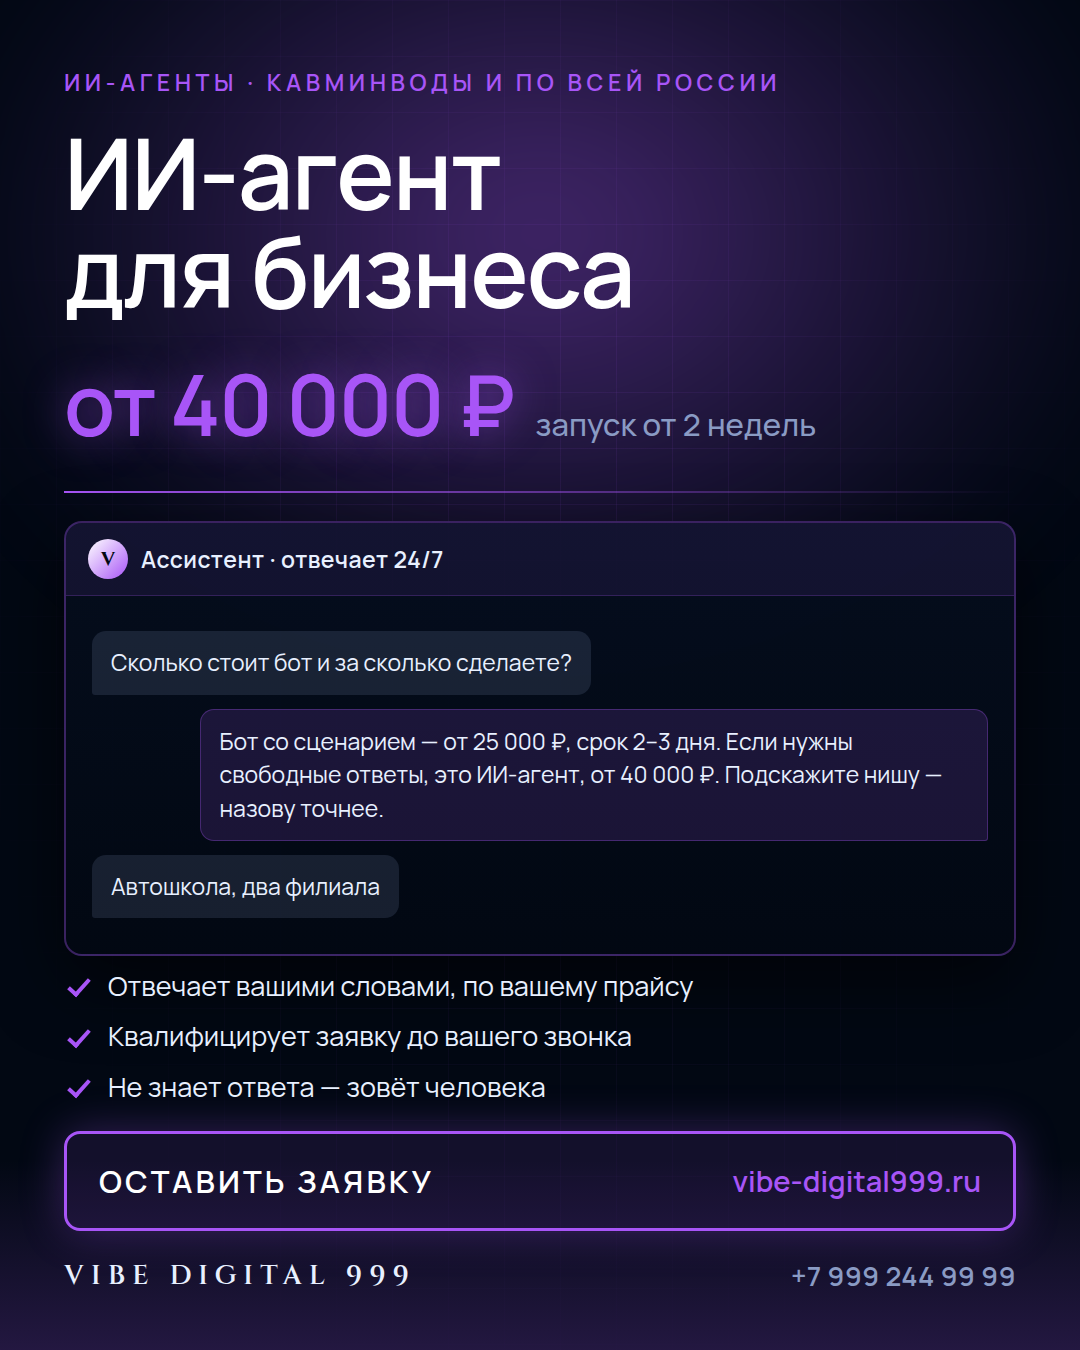
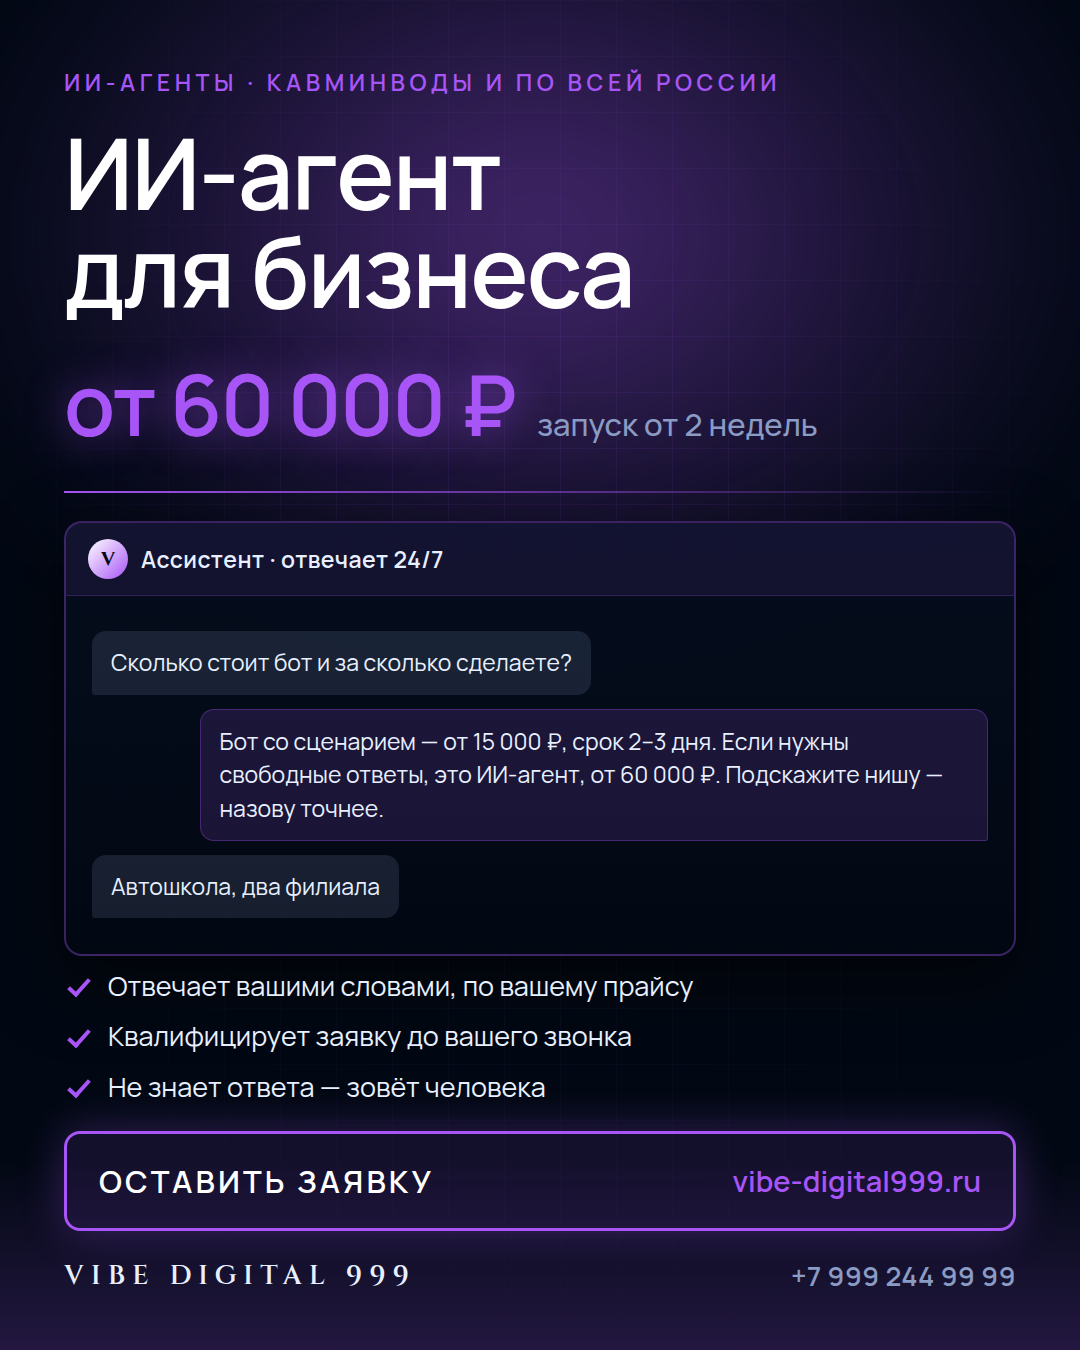
Цены на рекламных макетах разошлись с сайтом — исправить и запретить впредь
Товары выложены в Яндекс Бизнес, и цены теперь живут в трёх местах:
на сайте, на рекламных макетах и в карточке. Сверка показала, что
макеты отстали — цены брались на глаз из прайса на главной, а он
к тому моменту уже обновился.

  Лид-бот   было 25 000 ₽ на макете, на сайте 15 000 ₽
  ИИ-агент  было 40 000 ₽ на макете, на сайте 60 000 ₽

Лендинг и SEO-аудит совпадали. Расхождение сайта, рекламы и карточки
клиент читает не как опечатку: пришёл по рекламе на 40 000, увидел
60 000 и ушёл, а заодно перестал верить остальному.

Цены исправлены, картинки пересобраны. Заодно поправлены суммы внутри
диалога на макете ИИ-агента — там бот и агент назывались теми же
старыми числами.

Чтобы это не повторилось, в сборку встроена сверка со src/pages.js —
там источник правды, оттуда цены попадают и на сайт, и в разметку
для поисковиков. Расходится хоть на один макет — сборка останавливается
и печатает, где именно. Защита проверена подстановкой неверной цены:
падает с кодом 1 и понятным сообщением, а не рисует молча.

В журнал записано, какие цены правильные, — чтобы сверить с карточкой
Яндекс Бизнеса. Там же отмечено, что для витрины товаров нужны
квадратные версии макетов: нынешние 1080×1350 сделаны под ленту ВК
и в витрине обрежутся как раз по заголовку и по кнопке.

Claude-Session: https://claude.ai/code/session_01L4r9AvJ7LdQt8K2DfmUhac

Changed region(s): [[0.4278, 0.5289, 0.8556, 0.5911], [0.1528, 0.28, 0.4889, 0.3422], [0.4889, 0.3111, 0.7639, 0.3422]]

diff --git a/marketing/creatives.js b/marketing/creatives.js
@@ -70,7 +70,14 @@ const fontCss = fs.readFileSync(path.join(ROOT, 'public/assets/fonts/fonts.css')
   .join('\n');
 
 /* У каждого макета свой доминирующий цвет и своя картинка в центре.
-   Иначе серия из четырёх читается в ленте как одна повторённая. */
+   Иначе серия из четырёх читается в ленте как одна повторённая.
+
+   ЦЕНЫ БЕРУТСЯ ИЗ src/pages.js — там источник правды, оттуда же они
+   попадают на сайт и в разметку для поисковиков. Скрипт сверяет их при
+   сборке и не даёт разойтись: 11.08.2026 на макетах уехали цены бота
+   и агента из старого прайса, и это чуть не разошлось с карточкой
+   Яндекс Бизнеса. Расхождение сайта, рекламы и карточки читается
+   клиентом как обман, а не как опечатка. */
 const ITEMS = [
   {
     id: 'lending',
@@ -91,7 +98,7 @@ const ITEMS = [
     color: '#2D9CFF',
     eyebrow: 'Telegram-боты · Кавминводы и по всей России',
     title: 'Бот для заявок',
-    price: 'от 25 000 ₽',
+    price: 'от 15 000 ₽',
     term: 'срок 2–3 дня',
     ticks: [
       'Принимает заявки круглосуточно',
@@ -105,7 +112,7 @@ const ITEMS = [
     color: '#A855F7',
     eyebrow: 'ИИ-агенты · Кавминводы и по всей России',
     title: 'ИИ-агент<br>для бизнеса',
-    price: 'от 40 000 ₽',
+    price: 'от 60 000 ₽',
     term: 'запуск от 2 недель',
     ticks: [
       'Отвечает вашими словами, по вашему прайсу',
@@ -176,8 +183,8 @@ const MOCKS = {
       <div class="mock-bar tg"><b>V</b><span>Ассистент · отвечает 24/7</span></div>
       <div class="mock-body chat">
         <div class="bub in">Сколько стоит бот и за сколько сделаете?</div>
-        <div class="bub out">Бот со сценарием — от 25 000 ₽, срок 2–3 дня.
-          Если нужны свободные ответы, это ИИ-агент, от 40 000 ₽.
+        <div class="bub out">Бот со сценарием — от 15 000 ₽, срок 2–3 дня.
+          Если нужны свободные ответы, это ИИ-агент, от 60 000 ₽.
           Подскажите нишу — назову точнее.</div>
         <div class="bub in">Автошкола, два филиала</div>
       </div>
@@ -352,6 +359,41 @@ ${fontCss}
   </div>
 </div>
 </body></html>`;
+
+/* ── Сверка цен с сайтом ───────────────────────────────────────
+   Макет с ценой, которой нет на сайте, хуже макета без цены: клиент
+   приходит по рекламе, видит другую сумму и уходит. Поэтому сборка
+   падает, а не рисует молча.
+
+   11.08.2026 на макетах уехали цены бота (25 000 вместо 15 000) и
+   агента (40 000 вместо 60 000) — взяты из старого прайса. Поймано
+   случайно, когда цены уже уходили в карточку Яндекс Бизнеса.
+   Расхождение сайта, рекламы и карточки клиент читает как обман. */
+const OFFERS = require(path.join(ROOT, 'src/pages.js')).PAGES
+  .filter(p => p.offer && p.offer.price)
+  .reduce((m, p) => (m[p.url] = p.offer.price, m), {});
+
+const CHECK = {
+  lending: '/uslugi/razrabotka-sajta/',
+  bot:     '/uslugi/telegram-bot/',
+  agent:   '/uslugi/ai-agent/',
+  audit:   '/uslugi/seo-audit-152fz/',
+};
+
+let mismatch = 0;
+for (const it of ITEMS) {
+  const want = OFFERS[CHECK[it.id]];
+  const got = it.price.replace(/[^0-9]/g, '');
+  if (want !== got) {
+    console.error(`  ✗ ${it.id}: на макете ${got} ₽, на сайте ${want} ₽ (${CHECK[it.id]})`);
+    mismatch++;
+  }
+}
+if (mismatch) {
+  console.error('\nЦены разошлись с сайтом. Правьте ITEMS или src/pages.js — но так, чтобы совпало.\n');
+  process.exit(1);
+}
+console.log('  цены сверены с src/pages.js: совпадают\n');
 
 fs.mkdirSync(OUT, { recursive: true });
 

diff --git a/TASKS.md b/TASKS.md
@@ -642,6 +642,50 @@ Telegram-боты, этот сайт.
 
 ---
 
+## 11 августа: цены на рекламе разошлись с сайтом
+
+**Цель дня:** товары выложены в Яндекс Бизнес — значит, цены теперь живут
+в трёх местах сразу, и они обязаны совпадать.
+
+**Что нашли.** На рекламных макетах стояли цены из старого прайса:
+
+| Услуга | На сайте | Было на макете |
+|---|---|---|
+| Лид-бот | от 15 000 ₽ | от 25 000 ₽ |
+| ИИ-агент | от 60 000 ₽ | от 40 000 ₽ |
+
+Лендинг и аудит совпадали. Ошибка моя: цены брались на глаз из прайса
+на главной, а он к тому моменту уже обновился. Поймано случайно, когда
+цены уже уходили в карточку Яндекс Бизнеса.
+
+Расхождение сайта, рекламы и карточки клиент читает не как опечатку,
+а как обман: пришёл по рекламе на 40 000, увидел 60 000 и ушёл.
+
+**Сделано:**
+- [ ] Цены на макетах исправлены, картинки пересобраны.
+- [ ] В сборку макетов встроена сверка со `src/pages.js` — там источник
+      правды, оттуда цены попадают и на сайт, и в разметку для
+      поисковиков. Расходится — сборка падает с указанием, где именно.
+      Проверено подстановкой неверной цены: падает, код выхода 1.
+
+**Ждём от Гульнары:**
+- [ ] Сверить карточку в Яндекс Бизнесе с сайтом. Правильные цены:
+      разработка сайта от 35 000 ₽, Telegram- и VK-бот от 15 000 ₽,
+      ИИ-агент от 60 000 ₽, автоматизация от 30 000 ₽, вайбкодинг
+      от 65 000 ₽, приложения от 150 000 ₽, SEO-аудит с 152-ФЗ 15 000 ₽.
+- [ ] Если в карточке уже стоят 25 000 за бота или 40 000 за агента —
+      поправить там, а не на сайте.
+- [ ] Проверить, что в карточке указан сайт `vibe-digital999.ru`:
+      в разметке сайта ссылка на карточку уже стоит, нужна обратная.
+
+**Не доделано в коде:**
+- [ ] Витрина товаров в Яндекс Бизнесе показывает картинки ближе
+      к квадрату, а макеты сделаны 1080×1350 под ленту ВК. Там они
+      обрежутся сверху и снизу — как раз по заголовку и по кнопке.
+      Нужна квадратная версия 1080×1080.
+
+---
+
 ## Как обновлять сайт
 
 Порядок выкатки, ловушки Amvera и почему сначала `fetch` — в `CLAUDE.md`,
